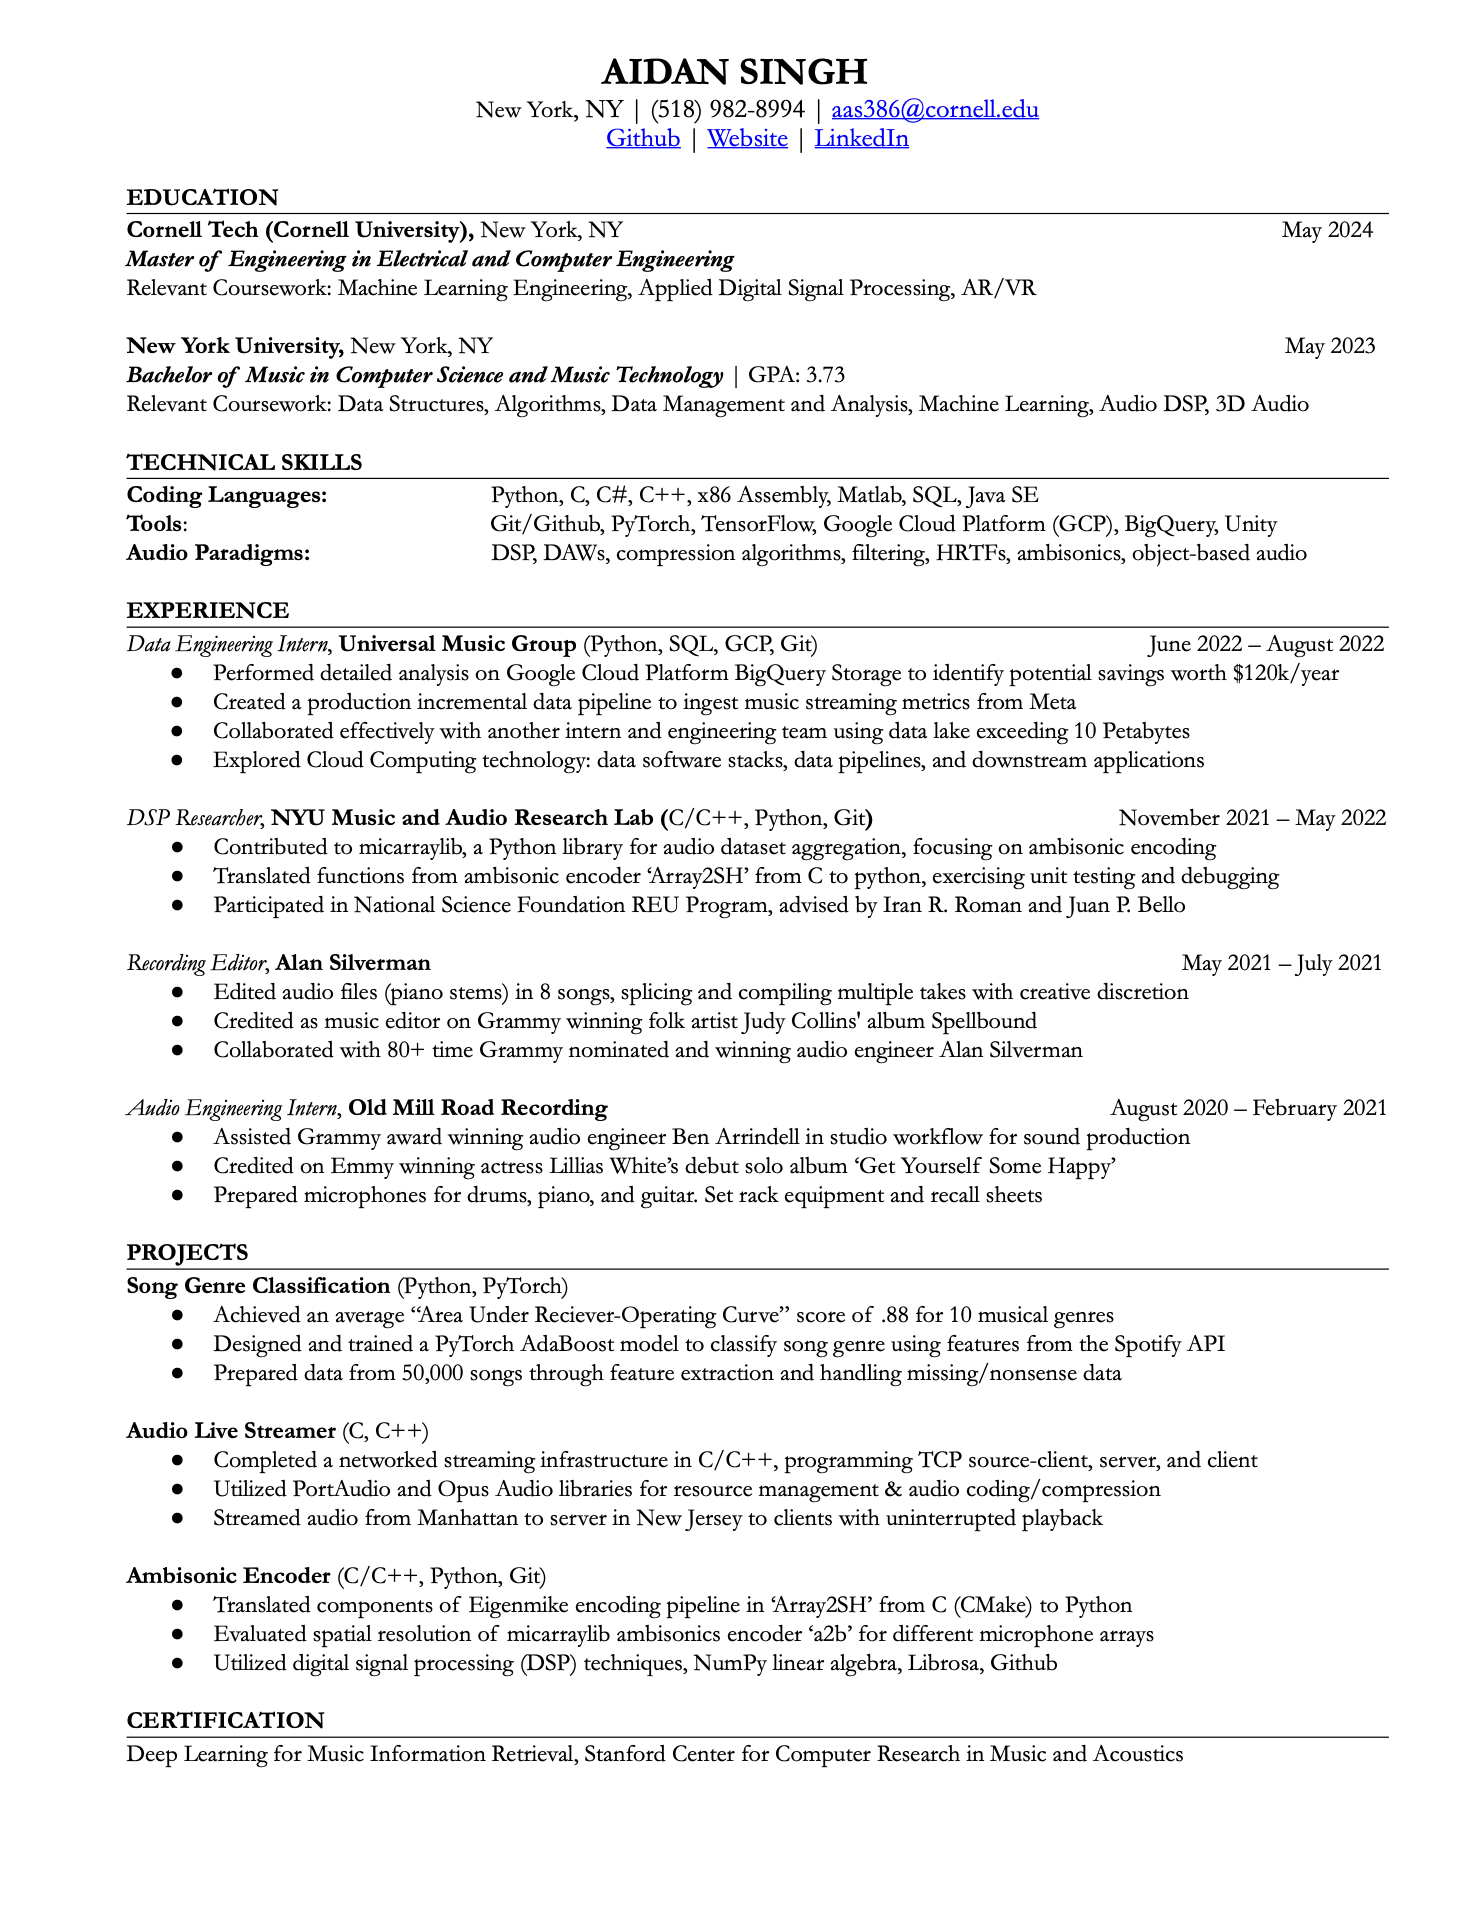
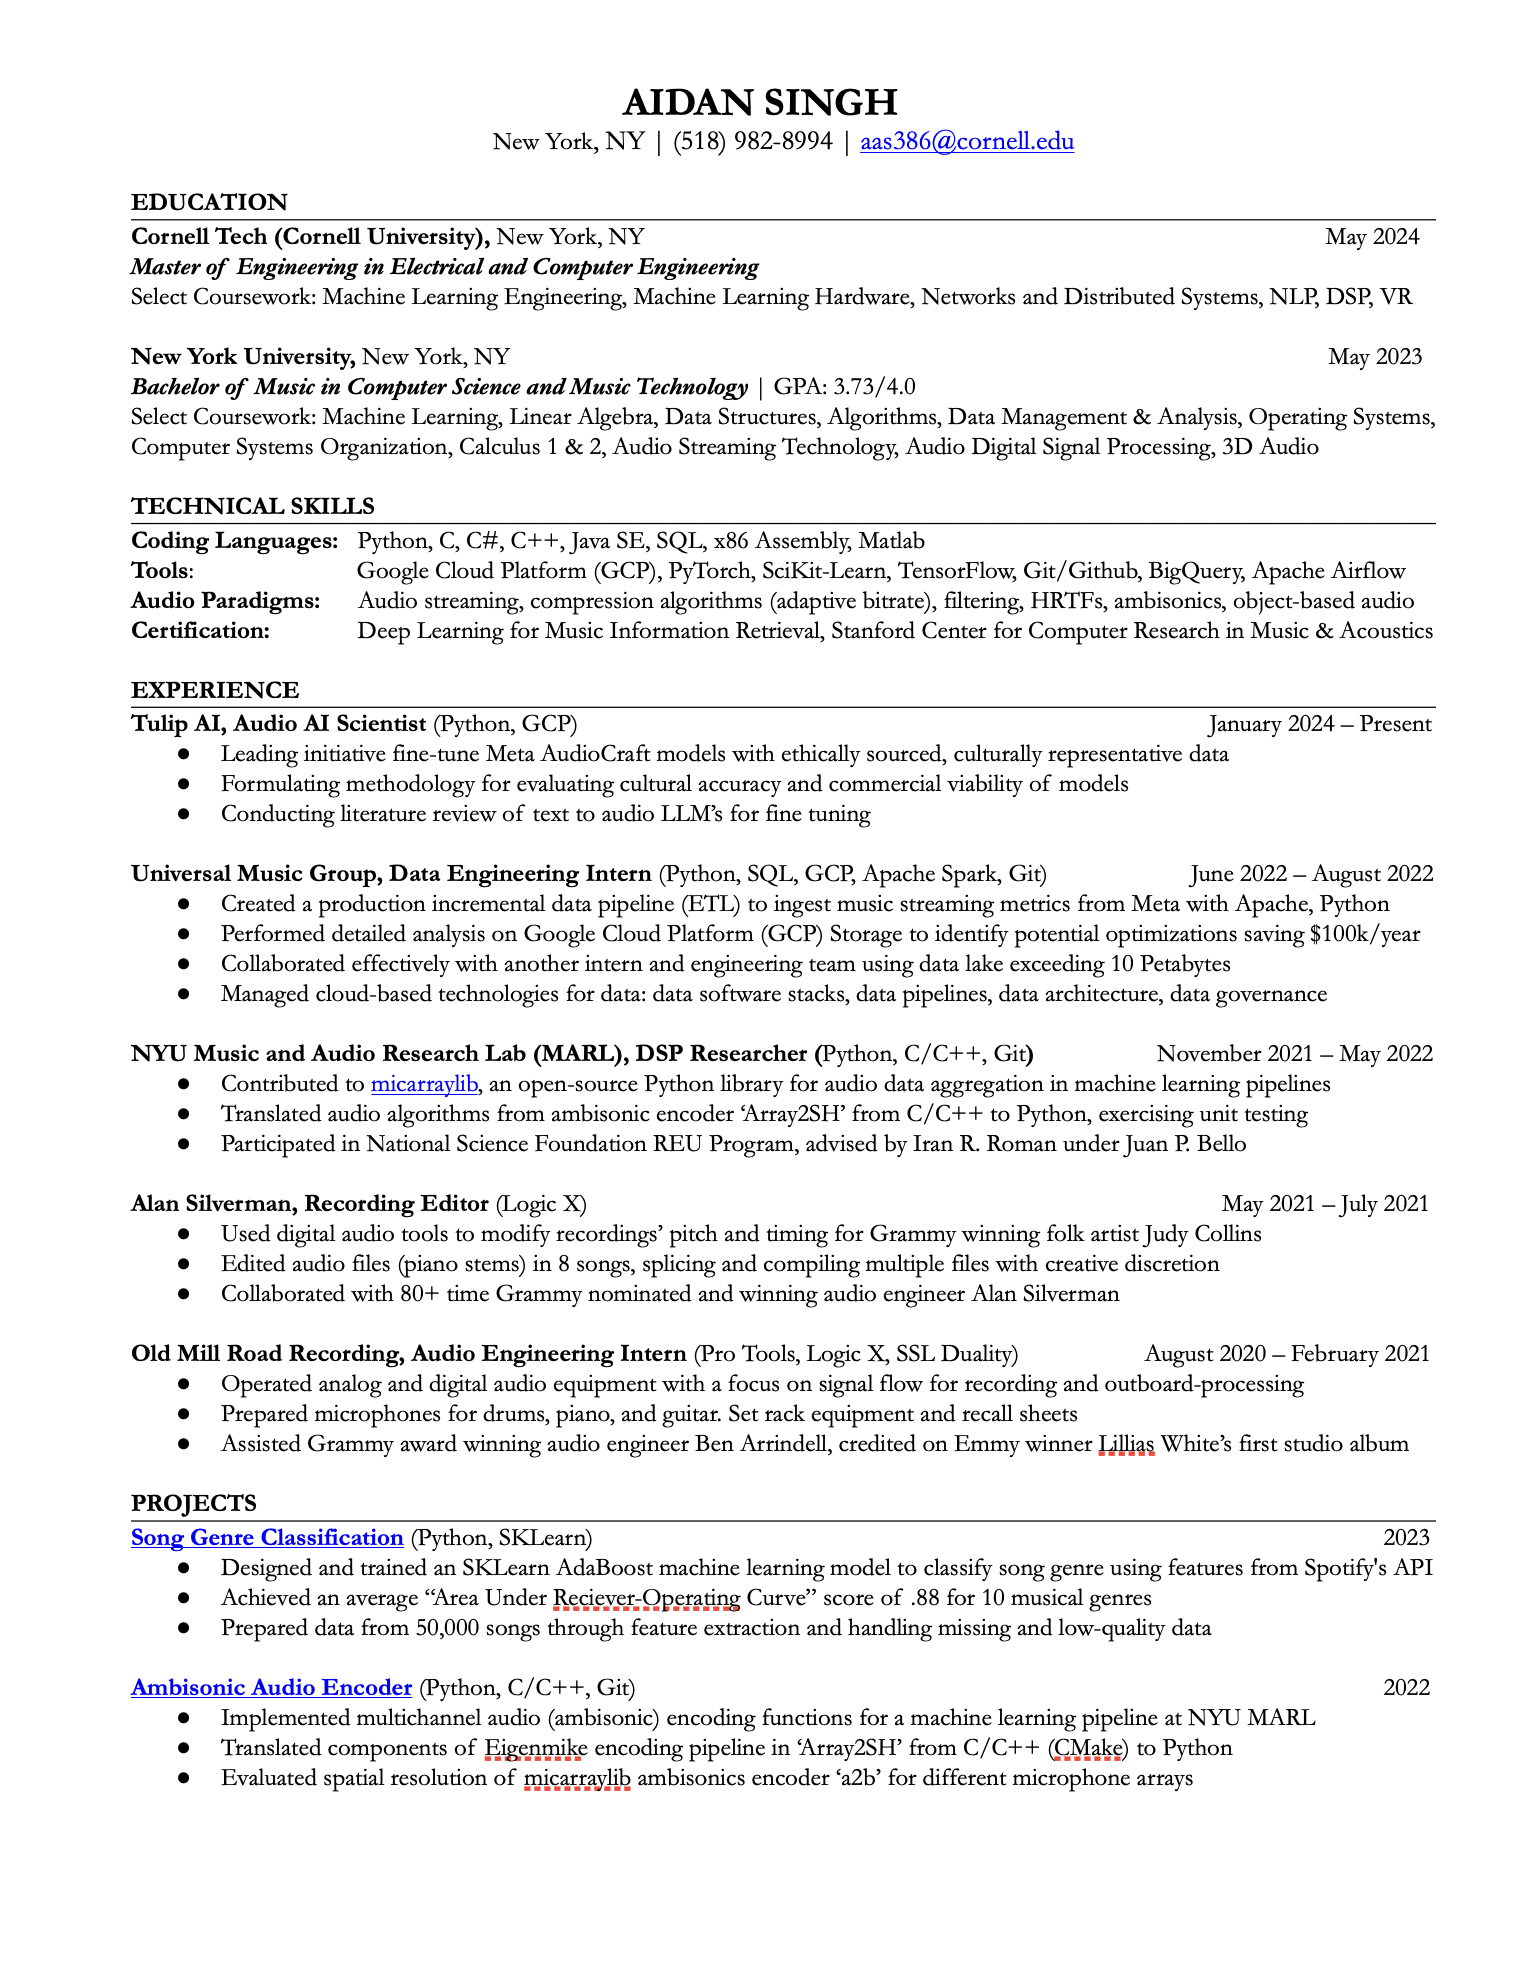
update resume

Changed region(s): [[0.0625, 0.0309, 0.9375, 0.9257], [0.9062, 0.8332, 0.9375, 0.864]]

diff --git a/experience/index.md b/experience/index.md
@@ -1,35 +1,5 @@
 | [Homepage](https://aidanasingh.github.io) | [Projects](https://aidanasingh.github.io/Projects/) | [Music](https://aidanasingh.github.io/published_music/) | [**Experience**](https://aidanasingh.github.io/experience/) | 
 
-# Resume
 
 <img src="assets/RESUME.png" width="850"/>
 
-
-
-# Select Coursework
-
-Currently enrolled in: Artificial Intelligence, Introduction to Machine Learning, Digital Signal Theory, Database Management and Analysis
-
-### Introduction to Digital Signal Theory
-
-Graduate course in the department of Music Technology at NYU. Theoretical class overviewing sampling theory, time & frequency domain convolution, FIR & IIR filtering, and DFT, FFT, & STFT algorithms. Practical lab portion taught in python.
-
-### Audio Streaming Technology
-
-Graduate course in the department of Music Technology at NYU. Practical class taught in c/c++, overviewing all portions of an audio live streaming pipeline including compression/perceptually motivated encoding, filterbanks, internetworking (client, source client, and server relationships, TCP protocol), and buffering.
-
-### 3D Audio
-
-Graduate course in the department of Music Technology at NYU. Theoretical class overviewing the psychoacoustics and perception of sound localization and spatialization, and audio formats including channel based audio, binaural audio, object based audio, and soundfield/ambisonics.
-
-### Operating Systems
-
-Course at NYU Courant overviewing process, resource, and file system management in Linux environments. Completed technical assignments:
-
-Implemented a shell in C with i/o redirection, process execution, directory navigation. Implemented built-in commands such as cd and exit, printed prompt based on directory location.
-
-Implemented a multithreaded run-length encoder in C. Program is a command-line tool that takes arguments for any number of files to be encoded to one output file, and an argument for the number of worker threads. Used optimizations like file mapping and gcc optimization, making my program run within 2x the Professor's implementation's speed.
-
-## Other Relevant Coursework
-
-Data Structures, Algorithms, Computer Systems Organization, Linear Algebra, Calculus I & II, Physics E&M, Physics Mechanics
